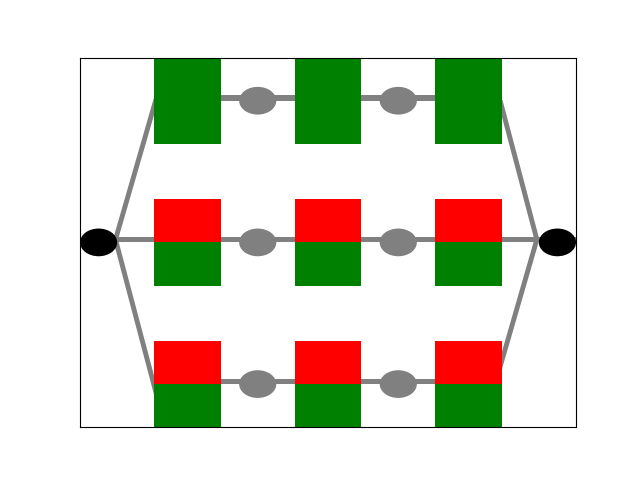
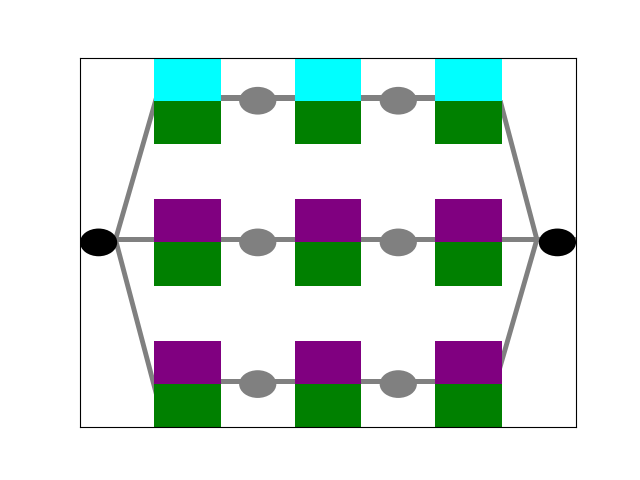
Cambio de colores

diff --git a/visualizacion.py b/visualizacion.py
@@ -76,7 +76,7 @@ O2 = Tree('Y', R1_l2, R2_l2)
 O3 = Tree('Y', R1_l3, R2_l3)
 
 formulaFinal = Tree('O', O1, Tree('O', O2, O3))
-#print Inorder(formulaFinal)+"\n"+"\n"
+print Inorder(formulaFinal)+"\n"+"\n"
 #-------------------------------------------------------------
 
 
@@ -196,49 +196,49 @@ def dibujar_tablero(f, n):
         #Creamos diccionario que contiene los keys como las letras propocicionales,
         # y sus negaciones y los values los reectangulos a dibujar,
         #teniendo en cuenta que: 
-        #->Si la letra está en mayuscula, el rectangulo será verde si
-        #es verdadera(decicí irme por ahí) y rojo si es falsa(no decidí irme por ahí).  
+        #->Si la letra está en mayuscula, el rectangulo será celeste si
+        #es verdadera(decicí irme por ahí) y morado si es falsa(no decidí irme por ahí).  
         #->Si la letra está en minuscula, tenemos que:
         #       -si la letra es verdadera(hay trancon), 
         #        entonces su rectangulo será rojo.
         #       -si la letra es falsa(no hay trancon), 
         #        entonces su rectangulo será verde.
         diccionario = {'P': patches.Rectangle(*[(g , 2*h+5*height), width, height],\
-        facecolor='green'), 'p':patches.Rectangle(*[(g , 2*h+4*height), width, height],\
+            facecolor='cyan'), 'p':patches.Rectangle(*[(g , 2*h+4*height), width, height],\
             facecolor='green'), 'Q':patches.Rectangle(*[(g+width+h , 2*h+5*height), width, height],\
-            facecolor='green'), 'q':patches.Rectangle(*[(g+width+h , 2*h+4*height), width, height],\
+            facecolor='cyan'), 'q':patches.Rectangle(*[(g+width+h , 2*h+4*height), width, height],\
             facecolor='green'), 'R':patches.Rectangle(*[(g+2*(width+h) , 2*h+5*height), width, height],\
-            facecolor='green'), 'r':patches.Rectangle(*[(g+2*(width+h) , 2*h+4*height), width, height],\
+            facecolor='cyan'), 'r':patches.Rectangle(*[(g+2*(width+h) , 2*h+4*height), width, height],\
             facecolor='green'), 'S':patches.Rectangle(*[(g , 3*height+h), width, height],\
-            facecolor='green'), 's':patches.Rectangle(*[(g , 2*height+h), width, height],\
+            facecolor='cyan'), 's':patches.Rectangle(*[(g , 2*height+h), width, height],\
             facecolor='green'), 'T':patches.Rectangle(*[(g+width+h , 3*height+h), width, height],\
-            facecolor='green'), 't':patches.Rectangle(*[(g+width+h , 2*height+h), width, height],\
+            facecolor='cyan'), 't':patches.Rectangle(*[(g+width+h , 2*height+h), width, height],\
             facecolor='green'), 'X':patches.Rectangle(*[(g+2*(width+h) ,3*height+h), width, height],\
-            facecolor='green'), 'x':patches.Rectangle(*[(g+2*(width+h) , 2*height+h), width, height],\
+            facecolor='cyan'), 'x':patches.Rectangle(*[(g+2*(width+h) , 2*height+h), width, height],\
             facecolor='green'), 'A':patches.Rectangle(*[(g , height), width, height],\
-            facecolor='green'), 'a':patches.Rectangle(*[(g , 0), width, height],\
+            facecolor='cyan'), 'a':patches.Rectangle(*[(g , 0), width, height],\
             facecolor='green'), 'B':patches.Rectangle(*[(g+width+h , height), width, height],\
-            facecolor='green'), 'b':patches.Rectangle(*[(g+width+h , 0), width, height],\
+            facecolor='cyan'), 'b':patches.Rectangle(*[(g+width+h , 0), width, height],\
             facecolor='green'), 'C':patches.Rectangle(*[(g+2*(width+h) , height), width, height],\
-            facecolor='green'), 'c':patches.Rectangle(*[(g+2*(width+h) , 0), width, height],\
+            facecolor='cyan'), 'c':patches.Rectangle(*[(g+2*(width+h) , 0), width, height],\
             facecolor='green'), '~P': patches.Rectangle(*[(g , 2*h+5*height), width, height],\
-            facecolor='red'), '~p':patches.Rectangle(*[(g , 2*h+4*height), width, height],\
+            facecolor='purple'), '~p':patches.Rectangle(*[(g , 2*h+4*height), width, height],\
             facecolor='red'), '~Q':patches.Rectangle(*[(g+width+h , 2*h+5*height), width, height],\
-            facecolor='red'), '~q':patches.Rectangle(*[(g+width+h , 2*h+4*height), width, height],\
+            facecolor='purple'), '~q':patches.Rectangle(*[(g+width+h , 2*h+4*height), width, height],\
             facecolor='red'), '~R':patches.Rectangle(*[(g+2*(width+h) , 2*h+5*height), width, height],\
-            facecolor='red'), '~r':patches.Rectangle(*[(g+2*(width+h) , 2*h+4*height), width, height],\
+            facecolor='purple'), '~r':patches.Rectangle(*[(g+2*(width+h) , 2*h+4*height), width, height],\
             facecolor='red'), '~S':patches.Rectangle(*[(g , 3*height+h), width, height],\
-            facecolor='red'), '~s':patches.Rectangle(*[(g , 2*height+h), width, height],\
+            facecolor='purple'), '~s':patches.Rectangle(*[(g , 2*height+h), width, height],\
             facecolor='red'), '~T':patches.Rectangle(*[(g+width+h , 3*height+h), width, height],\
-            facecolor='red'), '~t':patches.Rectangle(*[(g+width+h , 2*height+h), width, height],\
+            facecolor='purple'), '~t':patches.Rectangle(*[(g+width+h , 2*height+h), width, height],\
             facecolor='red'), '~X':patches.Rectangle(*[(g+2*(width+h) ,3*height+h), width, height],\
-            facecolor='red'), '~x':patches.Rectangle(*[(g+2*(width+h) , 2*height+h), width, height],\
+            facecolor='purple'), '~x':patches.Rectangle(*[(g+2*(width+h) , 2*height+h), width, height],\
             facecolor='red'), '~A':patches.Rectangle(*[(g , height), width, height],\
-            facecolor='red'), '~a':patches.Rectangle(*[(g , 0), width, height],\
+            facecolor='purple'), '~a':patches.Rectangle(*[(g , 0), width, height],\
             facecolor='red'), '~B':patches.Rectangle(*[(g+width+h , height), width, height],\
-            facecolor='red'), '~b':patches.Rectangle(*[(g+width+h , 0), width, height],\
+            facecolor='purple'), '~b':patches.Rectangle(*[(g+width+h , 0), width, height],\
             facecolor='red'), '~C':patches.Rectangle(*[(g+2*(width+h) , height), width, height],\
-            facecolor='red'), '~c':patches.Rectangle(*[(g+2*(width+h) , 0), width, height],\
+            facecolor='purple'), '~c':patches.Rectangle(*[(g+2*(width+h) , 0), width, height],\
             facecolor='red')  }
         #Creamos lista con rectangulos dependiendo de la formula ingresada
         ##########################################
